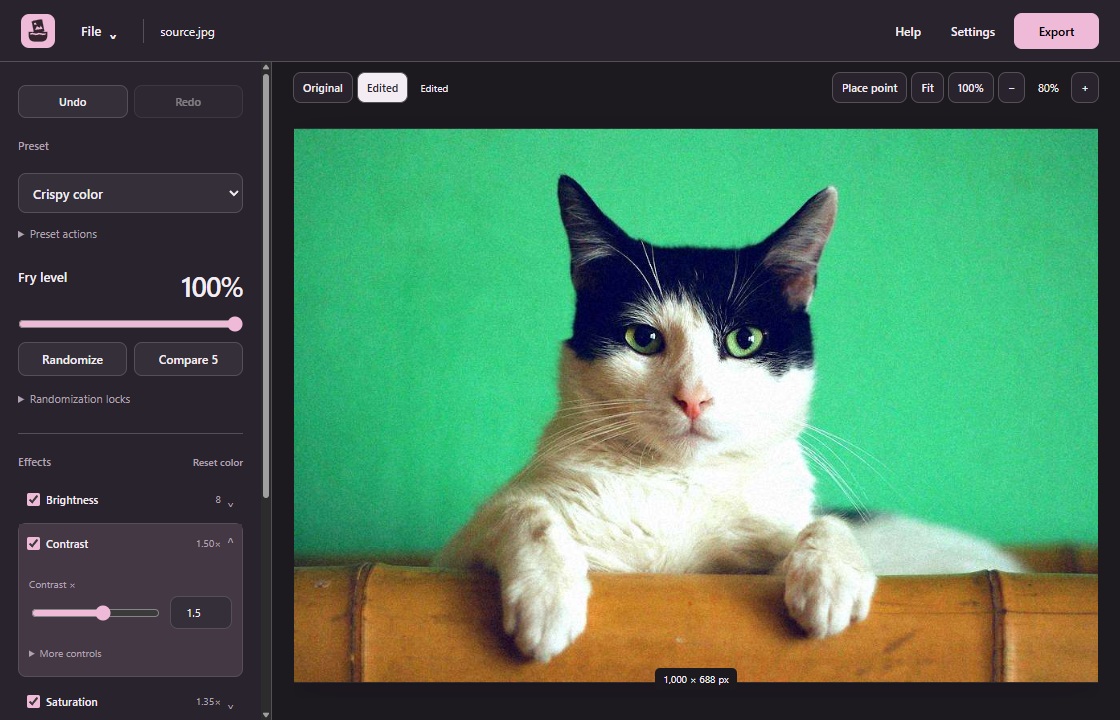
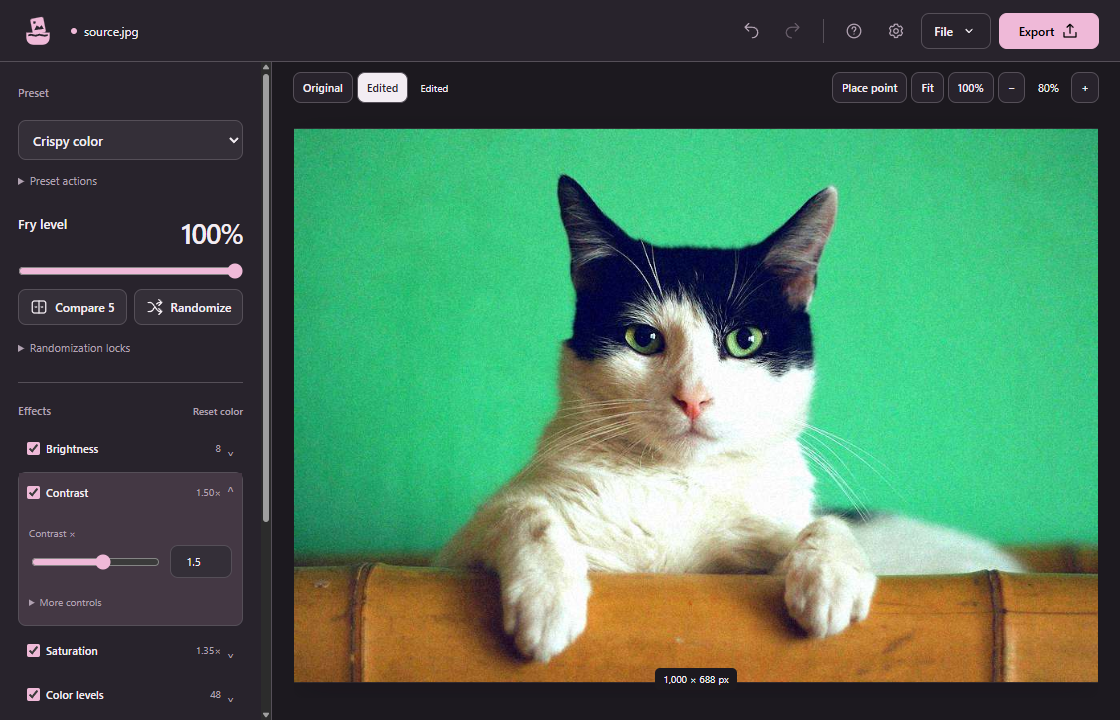
Align editor header controls with approved design

diff --git a/src/renderer/src/App.vue b/src/renderer/src/App.vue
@@ -422,18 +422,20 @@ onUnmounted(() => {
 <template>
   <div class="editor" :class="{ 'appearance-loading': !appearance.loaded.value }" @dragover.prevent @drop="files.drop">
     <header class="app-header">
-      <img class="app-mark" :src="appIcon" alt="Deep Fryer">
-      <DocumentControls :busy="busy" :has-image="document !== null" :ready="readyRevision === renderRevision" :recovery-status="files.recoveryStatus.value" :recovery-offer="files.recoveryOffer.value" @open-image="openImage" @open-project="files.openProject" @save-project="openSaveName('project')" @paste-image="files.pasteImage" @restore-recovery="files.restoreRecovery" @discard-recovery="files.discardRecovery" />
-      <span class="header-divider"></span><span class="filename" :title="document?.name">{{ document?.name ?? 'Untitled' }}</span>
+      <svg class="app-mark" viewBox="0 0 64 64" role="img" aria-label="Deep Fryer"><g transform="rotate(-11 32 24)"><rect x="20" y="7" width="25" height="30" rx="4" fill="currentColor"/><circle cx="27" cy="15" r="2.2" fill="var(--panel)"/><path d="M24 29l6-8 5 5 4-4 3 8Z" fill="var(--panel)"/></g><path d="M10 35h44v9c0 9-6 14-15 14H25c-9 0-15-5-15-14Z" fill="currentColor"/><path d="M15 40c6-4 10 4 16 0s10 4 18 0" stroke="var(--panel)" stroke-width="3.5" fill="none" stroke-linecap="round"/></svg>
+      <span class="filename" :title="document?.name"><span class="file-dot" aria-hidden="true"></span>{{ document?.name ?? 'Untitled' }}</span>
       <div class="header-actions">
-        <button type="button" @click="helpDialog?.open()">Help</button>
-        <button type="button" @click="settingsDialog?.open()">Settings<span v-if="appearance.notice.value" aria-label="Settings need attention"> •</span></button>
-        <button type="button" class="primary export-button" :disabled="busy || !document || readyRevision !== renderRevision" aria-keyshortcuts="Control+Shift+S Meta+Shift+S" @click="exportOutput">Export</button>
+        <button type="button" class="icon-button" aria-label="Undo" title="Undo" :disabled="!history.canUndo.value || controlsBusy" aria-keyshortcuts="Control+Z Meta+Z" @click="restoreFromHistory('undo')"><svg viewBox="0 0 24 24" aria-hidden="true"><path d="M8 5 3 10l5 5M3 10h10a7 7 0 0 1 0 14" transform="translate(1 -3)"/></svg></button>
+        <button type="button" class="icon-button" aria-label="Redo" title="Redo" :disabled="!history.canRedo.value || controlsBusy" aria-keyshortcuts="Control+Shift+Z Control+Y Meta+Shift+Z" @click="restoreFromHistory('redo')"><svg viewBox="0 0 24 24" aria-hidden="true"><path d="m16 5 5 5-5 5m5-5H11a7 7 0 0 0 0 14" transform="translate(-1 -3)"/></svg></button>
+        <span class="header-divider" aria-hidden="true"></span>
+        <button type="button" class="icon-button" aria-label="Help" title="Help" @click="helpDialog?.open()"><svg viewBox="0 0 24 24" aria-hidden="true"><circle cx="12" cy="12" r="9"/><path d="M9.5 9a2.5 2.5 0 0 1 5 0c0 2-2.5 2-2.5 4m0 3h.01"/></svg></button>
+        <button type="button" class="icon-button" aria-label="Settings" :title="appearance.notice.value ? 'Settings need attention' : 'Settings'" @click="settingsDialog?.open()"><svg viewBox="0 0 24 24" aria-hidden="true"><path d="m10 3-.6 2.3-2 .9-2.1-.7-2 3.4 1.6 1.7v2.3l-1.6 1.7 2 3.4 2.2-.6 1.9 1 .6 2.2h4l.6-2.3 2-.9 2.1.6 2-3.4-1.6-1.7v-2.3l1.6-1.7-2-3.4-2.2.7-1.9-1L14 3Z"/><circle cx="12" cy="12" r="3"/></svg><span v-if="appearance.notice.value" class="settings-attention" aria-hidden="true"></span></button>
+        <DocumentControls :busy="busy" :has-image="document !== null" :ready="readyRevision === renderRevision" :recovery-status="files.recoveryStatus.value" :recovery-offer="files.recoveryOffer.value" @open-image="openImage" @open-project="files.openProject" @save-project="openSaveName('project')" @paste-image="files.pasteImage" @restore-recovery="files.restoreRecovery" @discard-recovery="files.discardRecovery" />
+        <button type="button" class="primary export-button" :disabled="busy || !document || readyRevision !== renderRevision" aria-keyshortcuts="Control+Shift+S Meta+Shift+S" @click="exportOutput">Export<svg viewBox="0 0 24 24" aria-hidden="true"><path d="M12 15V3m-4 4 4-4 4 4M4 14v6h16v-6"/></svg></button>
       </div>
     </header>
     <div class="workspace">
       <aside class="sidebar" aria-label="Image controls">
-        <div class="history-controls" aria-label="Edit history"><button type="button" :disabled="!history.canUndo.value || controlsBusy" aria-keyshortcuts="Control+Z Meta+Z" @click="restoreFromHistory('undo')">Undo</button><button type="button" :disabled="!history.canRedo.value || controlsBusy" aria-keyshortcuts="Control+Shift+Z Control+Y Meta+Shift+Z" @click="restoreFromHistory('redo')">Redo</button></div>
         <PresetControls v-if="document" :key="imageVersion" :preset="preset" :bitmap="document.bitmap" :restore-version="restoreVersion" :disabled="controlsBusy" @change="changePreset" @gesture-begin="beginGesture" @gesture-end="endGesture" @load-preset="files.loadPreset" @save-preset="openSaveName('preset')" />
         <p v-else class="inspector-empty">Open an image to choose a preset and adjust its effects.</p>
         <EffectsPanel v-if="document" :key="imageVersion" :preset="preset" :restore-version="restoreVersion" :selected-point-id="selectedPointId" :disabled="controlsBusy" @change="changePreset" @gesture-begin="beginGesture" @gesture-end="endGesture" @select-point="selectedPointId = $event; showing = 'edited'" />

diff --git a/src/renderer/src/style.css b/src/renderer/src/style.css
@@ -24,17 +24,19 @@ h3 { font-size: 13px; margin: 0 0 12px; }
 .editor { height: 100%; display: flex; flex-direction: column; }
 .appearance-loading { visibility: hidden; }
 .app-header { height: 62px; flex-shrink: 0; display: flex; align-items: center; gap: 16px; padding: 0 21px; background: var(--panel); border-bottom: 1px solid var(--line); }
-.app-mark { width: 34px; height: 34px; }
-.header-divider { width: 1px; height: 24px; background: var(--line); }
-.filename { color: var(--text); font-size: 12px; overflow: hidden; text-overflow: ellipsis; white-space: nowrap; min-width: 40px; }
+.app-mark { width: 34px; height: 34px; flex-shrink: 0; color: var(--control); }
+.header-divider { width: 1px; height: 24px; margin: 0 5px; background: var(--line); flex-shrink: 0; }
+.filename { position: relative; padding-left: 13px; color: var(--text); font-size: 12px; overflow: hidden; text-overflow: ellipsis; white-space: nowrap; min-width: 40px; }
+.file-dot { position: absolute; left: 0; top: calc(50% - 3px); width: 6px; height: 6px; background: var(--control); border-radius: 50%; }
 .header-actions { display: flex; align-items: center; gap: 8px; margin-left: auto; }
-.header-actions button { min-height: 36px; }
-.header-actions button:not(.primary) { background: transparent; border-color: transparent; }
-.export-button { min-width: 85px; }
+.header-actions button, .header-actions summary, .fry-buttons button { display: inline-flex; align-items: center; justify-content: center; gap: 7px; }
+.header-actions svg, .fry-buttons svg { width: 18px; height: 18px; fill: none; stroke: currentColor; stroke-width: 1.7; stroke-linecap: round; stroke-linejoin: round; flex-shrink: 0; }
+.header-actions .icon-button { position: relative; width: 34px; height: 34px; padding: 0; background: transparent; border-color: transparent; color: var(--muted); }
+.header-actions .icon-button:hover:enabled { background: var(--soft); color: var(--text); }
+.settings-attention { position: absolute; right: 3px; top: 3px; width: 5px; height: 5px; border-radius: 50%; background: var(--control); }
+.export-button { min-width: 100px; min-height: 36px; }
 .workspace { display: grid; grid-template-columns: 272px minmax(0, 1fr); flex: 1; min-height: 0; }
 .sidebar { padding: 23px 18px; background: var(--panel); border-right: 1px solid var(--line); overflow-y: auto; scrollbar-width: thin; }
-.history-controls { display: flex; gap: 6px; margin-bottom: 20px; }
-.history-controls button { flex: 1; font-size: 11px; }
 .inspector-empty { margin-top: 24px; }
 .eyebrow { font-size: 11px; color: var(--muted); font-weight: 600; }
 .controls-heading { display: flex; justify-content: space-between; align-items: center; margin-bottom: 10px; }
@@ -101,8 +103,8 @@ h3 { font-size: 13px; margin: 0 0 12px; }
 .bulge-handle { position: absolute; left: 0; top: 0; transform: translate(-50%, -50%); width: 26px; height: 26px; padding: 0; border-radius: 50%; border: 2px solid #30212b; background: #efb9d8; color: #30212b; font-size: 11px; pointer-events: auto; cursor: move; touch-action: none; }
 .bulge-handle.selected { outline: 3px solid white; outline-offset: 2px; }
 .file-menu { position: relative; flex-shrink: 0; }
-.file-menu > summary { list-style: none; padding: 8px 10px; border-radius: 7px; font-weight: 600; }
-.file-menu > summary::after { content: '⌄'; padding-left: 8px; }
+.file-menu > summary { list-style: none; min-height: 36px; padding: 8px 12px; border: 1px solid var(--line); border-radius: 8px; background: var(--panel); font-size: 12px; font-weight: 600; }
+.file-menu .menu-items { left: auto; right: 0; }
 .menu-items { position: absolute; z-index: 5; top: 100%; left: 0; width: 235px; background: var(--panel); color: var(--text); border: 1px solid var(--line); border-radius: 10px; box-shadow: 0 10px 30px #0003; padding: 6px; }
 .menu-items button { display: flex; width: 100%; justify-content: space-between; background: transparent; border: none; text-align: left; font-size: 11px; padding: 10px; }
 kbd { color: var(--muted); font: 10px 'Segoe UI', sans-serif; }

diff --git a/src/renderer/src/PresetControls.vue b/src/renderer/src/PresetControls.vue
@@ -128,7 +128,7 @@ onUnmounted(() => { comparisonGeneration += 1; comparisonCancellation?.abort() }
     <label class="look-choice"><span class="sr-only">Preset</span><select :value="look" :disabled="disabled" aria-label="Preset" @change="applyLook"><option value="" disabled>Current settings</option><option v-for="name in namedLooks" :key="name">{{ name }}</option></select></label>
     <details ref="menu" class="preset-menu"><summary role="button">Preset actions</summary><div class="menu-items"><button type="button" :disabled="disabled" @click="presetFile('load')">Load preset</button><button type="button" :disabled="disabled" @click="presetFile('save')">Save preset as…</button></div></details>
     <label class="fry-amount">Fry level <span class="amount-value" aria-hidden="true">{{ amount }}%</span><input type="range" aria-label="Fry level" min="0" max="100" :value="amount" :disabled="disabled" @pointerdown="emit('gestureBegin')" @pointerup="emit('gestureEnd')" @pointercancel="emit('gestureEnd')" @change="emit('gestureEnd')" @input="changeAmount"></label>
-    <div class="fry-buttons"><button type="button" :disabled="disabled" @click="randomize">Randomize</button><button type="button" :disabled="disabled || neutral" @click="compare">Compare 5</button></div>
+    <div class="fry-buttons"><button type="button" :disabled="disabled || neutral" @click="compare"><svg viewBox="0 0 24 24" aria-hidden="true"><rect x="3" y="4" width="18" height="16" rx="3"/><path d="M12 4v16m-5-8h2m6 0h2"/></svg>Compare 5</button><button type="button" :disabled="disabled" @click="randomize"><svg viewBox="0 0 24 24" aria-hidden="true"><path d="M3 6h3c4 0 8 12 12 12h3m-4-4 4 4-4 4M3 18h3c2 0 4-3 5-5m3-5c1-1 2-2 4-2h3m-4-4 4 4-4 4"/></svg>Randomize</button></div>
     <details class="random-locks"><summary>Randomization locks</summary><template v-for="(effect, index) in preset.effects" :key="effect.id"><label v-for="parameter in randomParameters(effect)" :key="parameter.key"><input type="checkbox" :aria-label="`Lock ${parameter.label} ${index + 1}`" :checked="locks.has(parameterKey(effect, parameter.key))" :disabled="disabled" @change="toggleLock(parameterKey(effect, parameter.key))">Lock {{ parameter.label }} <small>Effect {{ index + 1 }}</small></label></template></details>
 
   </section>

diff --git a/src/renderer/src/DocumentControls.vue b/src/renderer/src/DocumentControls.vue
@@ -10,7 +10,7 @@ watchEffect(() => { if (props.recoveryOffer && dialog.value && !dialog.value.ope
 
 <template>
   <details ref="menu" class="file-menu">
-    <summary role="button" aria-label="File" data-dialog-fallback>File</summary>
+    <summary role="button" aria-label="File" data-dialog-fallback>File<svg viewBox="0 0 24 24" aria-hidden="true"><path d="m8 10 4 4 4-4"/></svg></summary>
     <div class="menu-items">
       <div @click="menu && (menu.open = false)">
         <button class="open-button" type="button" :disabled="busy" @click="$emit('openImage')">Open image<kbd>Ctrl O</kbd></button>
